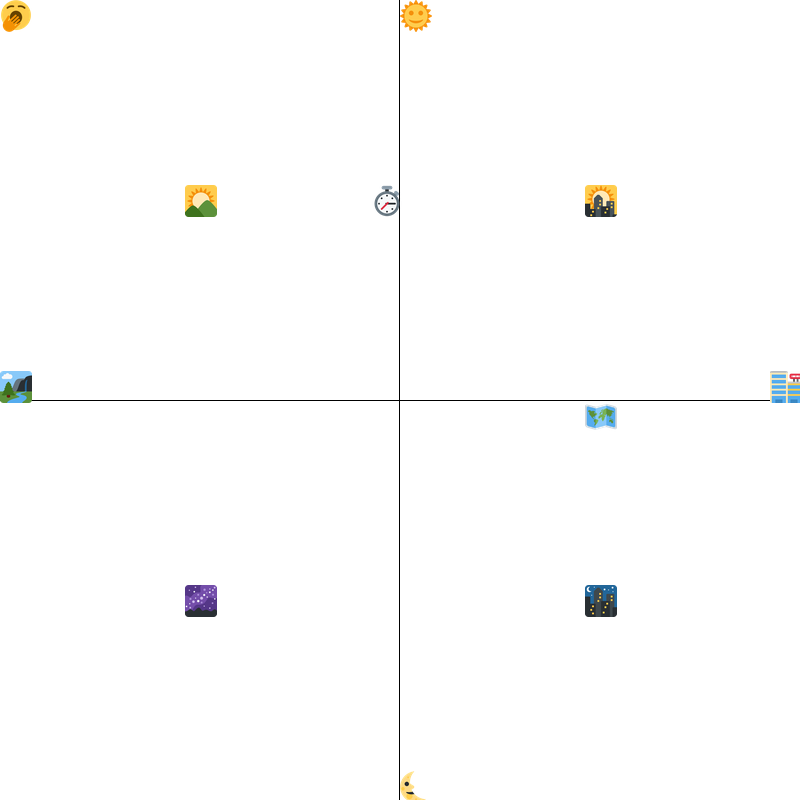
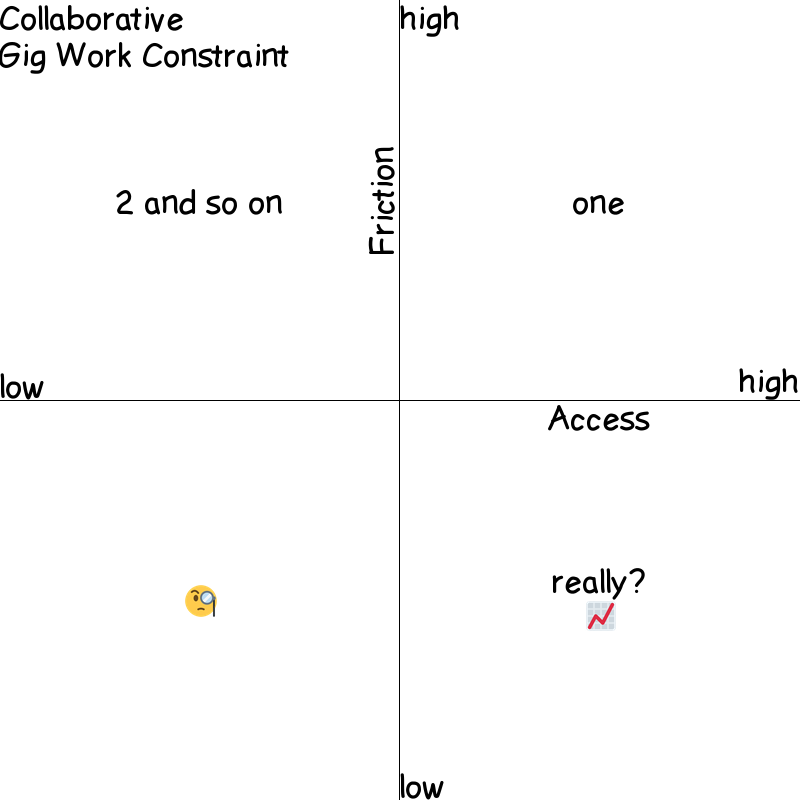
enforced breaks

diff --git a/main.py b/main.py
@@ -16,6 +16,8 @@ TOKEN = os.environ['your_bot_token_here']
 PARAM_NUM = 11
 
 HASH_DELIM = '.:.'
+REPLY_DELIM = ','
+BREAK_DELIM = '\n'
 LINE_WIDTH = 1
 WIDEFIT = 1
 MIDFIT = 0.6
@@ -27,7 +29,6 @@ bot = commands.Bot(
 
 @bot.event
 async def on_ready():
-	print('ready')
 	try:
 		synced = await bot.tree.sync()
 		print(f"synced {len(synced)} command(s)")
@@ -39,33 +40,38 @@ async def on_message(interaction):
 	if interaction.author.id == bot.user.id:
 		return
 
-	if interaction.reference:
-		replied = await interaction.channel.fetch_message(
+	if interaction.reference and interaction.channel:
+		target = await interaction.channel.fetch_message(
 			interaction.reference.message_id
 		)
-		if replied.author.id == bot.user.id:
-			if interaction.content in ['delete', 'd']:
-				await replied.delete()
-
-			else:
-				hash = await tohash(interaction.content)
-				if hash == False:
-					await interaction.author.send(
-						"ex. x name, y name with space"
-					)
+		if target.author.id == bot.user.id:
+			try:
 				
+				if interaction.content in ['delete', 'd']:
+					await target.delete()
+	
 				else:
-					hash = await amendhash(replied.content, hash)
-					await tofile(hash)
-					with open('diagram.png', 'rb') as f:
-						await interaction.channel.send(
-							hash,
-							file=discord.File(f)
+					amends = await tohash(interaction.content)
+					if amends == False:
+						await interaction.author.send(
+							"syntax: x label"+REPLY_DELIM+" y spaced label"
 						)
+					
+					else:
+						hash = await amendhash(target.content, amends)
+						await tofile(hash)
+						with open('diagram.png', 'rb') as f:
+							await interaction.channel.send(
+								hash,
+								file=discord.File(f)
+							)
+							
+			except Exception as e:
+				await interaction.author.send(e)
 
 @bot.tree.command(name='tbt')
 @app_commands.describe(
-	hash = "the line of text the bot outputs",
+	hash = "🗺.:.⏱.:.🏞.:.🏬.:.🌜.:.🌞.:.🌇.:.🌄.:.🌌.:.🌃.:.🥱",
 	_x = "x coordinate",
 	_y = "y coordinate",
 	_xn = "when x is - (left)",
@@ -95,24 +101,28 @@ async def tbt(interaction:discord.Interaction,
 								_t:str="",
 							_pub:bool=False
 						 	):
-
-	hash = await tohash(hash)
-	if hash == False:
-		await interaction.response.send_message(
-			"incorrect format ... or a bug?",
-			ephemeral=True
-		)
-
-	else:
-		hash = await amendhash(hash, [_x, _y, _xn, _xp, _yn, _yp, _1, _2, _3, _4, _t])
-		await tofile(hash)
-		# send to discord
-		with open('diagram.png', 'rb') as f:
+	try:
+								
+		hash = await tohash(hash)
+		if hash == False:
 			await interaction.response.send_message(
-				hash,
-				file = discord.File(f),
-				ephemeral = not _pub
+				"incorrect format ... or a bug?",
+				ephemeral=True
 			)
+	
+		else:
+			hash = await amendhash(hash, [_x, _y, _xn, _xp, _yn, _yp, _1, _2, _3, _4, _t])
+			await tofile(hash)
+			# send to discord
+			with open('diagram.png', 'rb') as f:
+				await interaction.response.send_message(
+					hash if _pub == True else hash + " (publish with _pub)",
+					file = discord.File(f),
+					ephemeral = not _pub
+				)
+
+	except Exception as e:
+		await interaction.author.send(e)
 	
 
 #### utility
@@ -128,26 +138,31 @@ async def tohash(hash):
 	if hash is None:
 		return hash
 	
-	cuts = hash.split(", ")
-	if len(cuts) == 1 and len(hash.split(".:.")) > 1:
+	cuts = hash.split(REPLY_DELIM)
+	if len(cuts) == 1 and len(hash.split(HASH_DELIM)) > 1:
 		if len(hash.split((HASH_DELIM))) == PARAM_NUM:
 			return hash
 		return False
 		
-	indexes = []
-	values = []
+	processed = {}
 	for cut in cuts:
-		c = cut.split(" ")
+		c = cut.strip(" ").split(" ")
 		if len(c) == 1 or c[0] not in options:
 			return False
 		else:
-			indexes.append(options.index(c[0]) % PARAM_NUM)
-			values.append(" ".join(c[1:]))
+			key = options.index(c[0]) % PARAM_NUM
+			if key in processed.keys():
+				processed[key] += BREAK_DELIM + " ".join(c[1:])
+			else:
+				processed[key] = " ".join(c[1:])
 
 	hash = ""
+
+	keys = list(processed.keys())
+	values = list(processed.values())
 	for i in range(PARAM_NUM):
-		if i in indexes:
-			hash += values[indexes.index(i)]
+		if i in processed.keys():
+			hash += values[keys.index(i)]
 		if i != PARAM_NUM - 1:
 			hash += HASH_DELIM
 	
@@ -201,7 +216,14 @@ async def tofile(hash):
 	font90 = ImageFont.TransposedFont(font, Image.ROTATE_90)
 
 	# utilities
+	def getw(target):
+		return font.getlength(
+			emoji.replace_emoji(target, '   ')
+		)
 
+	def geth(target):
+		return font.getbbox(target)[3]
+	
 	def drawtextdefault(xy, text, font=font):
 		with Pilmoji(image) as pilmoji:
 			pilmoji.text((int(xy[0]), int(xy[1])), text, font=font, fill="black")
@@ -211,18 +233,28 @@ async def tofile(hash):
 		size = 0
 		lasti = 0
 		for i in range(len(text)):
+
+			if text[i] == '\n':
+				size += wrapsize
+				text = text.replace('\n', ' ')
+			
 			if size + getw(text[i]) < wrapsize:
 				size += getw(text[i])
+				
+			elif text[i+1] == " ":
+				size += getw(text[i])
+				
 			else:
-				if len(text[:i].strip(" ").split(" ")) < 2:
+				if len(text[lasti:i].strip(" ").split(" ")) < 2:
 					wrap.append(text[lasti:i].strip(" "))
-					lasti = i + 1
+					lasti = i
 				else:
 					append = " ".join(text[lasti:i].strip(" ").split(" ")[:-1])
 					wrap.append(append)
-					lasti = lasti + len(append) + 1
+					lasti = lasti + len(append)
 				size = 0
 		wrap.append(text[lasti:].strip(" "))
+
 		
 		lh = geth(text)
 		x, y = {'h-': xy,
@@ -246,37 +278,44 @@ async def tofile(hash):
 	def drawline(xy):
 		draw.line(xy, fill='black')
 
-	def getw(target):
-		return font.getlength(
-			emoji.replace_emoji(target, '   ')
-		)
 
-	def geth(target):
-		return font.getbbox(target)[3]
+	#should replace drawing functions with identification and draw after effecient shape is calculated
+
+	#objects
 	
-	# draw x lines, labels, limits
-	drawline((0, oy, width, oy))
-
-	drawprose((q1x, oy), _x, (width-ox) * WIDEFIT, 'h0-')
-
-	drawprose((0, oy), _xn, ox * MIDFIT, 'h++')
-	drawprose((width, oy), _xp, (width-ox) * MIDFIT, 'h-+')
-
-
-	# draw y lines, labels, limits
-	drawline((ox - LINE_WIDTH/2, 0, ox - LINE_WIDTH/2, height))
-
-	drawprose((ox, q1y), _y, (oy) * WIDEFIT, 'v0+', font90)
-
-	drawprose((ox, height), _yn, (width-ox) * MIDFIT, 'h++')
-	drawprose((ox, 0), _yp, (width-ox) * MIDFIT, 'h+-')
-	
-
-	# draw quadrant labels
 	drawprose((q1x, q1y), _1, (width-ox) * MIDFIT, 'h00')
 	drawprose((q2x, q2y), _2, (ox) * MIDFIT, 'h00')
 	drawprose((q3x, q3y), _3, (ox) * MIDFIT, 'h00')
 	drawprose((q4x, q4y), _4, (width-ox) * MIDFIT, 'h00')
+
+
+	#morphisms
+	
+	if (_xn != ''):
+		drawline((0, oy, ox - LINE_WIDTH/2, oy))
+		drawprose((0, oy), _xn, ox * MIDFIT, 'h++')
+
+	if (_xp != ''):
+		drawline((ox - LINE_WIDTH/2, oy, width, oy))
+		drawprose((width, oy), _xp, (width-ox) * MIDFIT, 'h-+')
+	
+	if (_yn != ''):
+		drawline((ox - LINE_WIDTH/2, height, ox - LINE_WIDTH/2, oy))
+		drawprose((ox, height), _yn, (width-ox) * MIDFIT, 'h++')
+	
+	if (_yp != ''):
+		drawline((ox - LINE_WIDTH/2, oy, ox - LINE_WIDTH/2, 0))
+		drawprose((ox, 0), _yp, (width-ox) * MIDFIT, 'h+-')	
+
+
+	#functors 
+	
+	drawprose((q1x, oy), _x, (width-ox) * WIDEFIT, 'h0-')
+	drawprose((ox, q1y), _y, (oy) * WIDEFIT, 'v0+', font90)
+	
+	
+	#most efficient shape
+
 	
 
 	# draw title
@@ -286,3 +325,37 @@ async def tofile(hash):
 	image.save('diagram.png')
 
 bot.run(TOKEN)
+
+
+
+
+
+""" gpt preliminary
+import math
+
+def draw_objects(L):
+    # place objects in a circular pattern
+    for i in range(L):
+        angle = 2 * math.pi * i / L
+        place_object(math.cos(angle), math.sin(angle))
+
+def draw_morphisms(M, L):
+    # create a list of all possible object pairs
+    object_pairs = list(combinations(range(L), 2))
+    # sort the pairs by the distance between objects
+    object_pairs.sort(key=lambda pair: abs(pair[0] - pair[1]))
+    # draw morphisms between the first M object pairs
+    for i in range(M):
+        draw_morphism(object_pairs[i])
+
+def draw_functors(N, M):
+    # assign each functor to a morphism
+    for i in range(N):
+        assign_functor_to_morphism(i % M, i)
+
+def draw_graph(L, M, N):
+    draw_objects(L)
+    draw_morphisms(M, L)
+    draw_functors(N, M)
+
+"""
